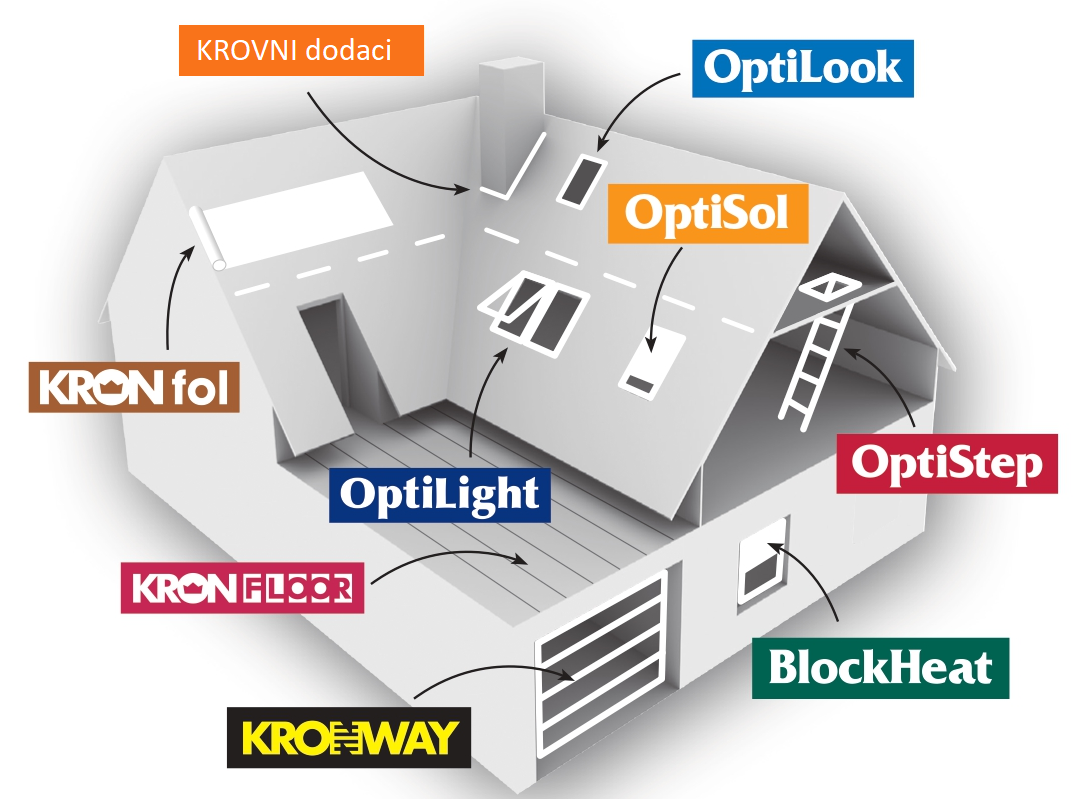
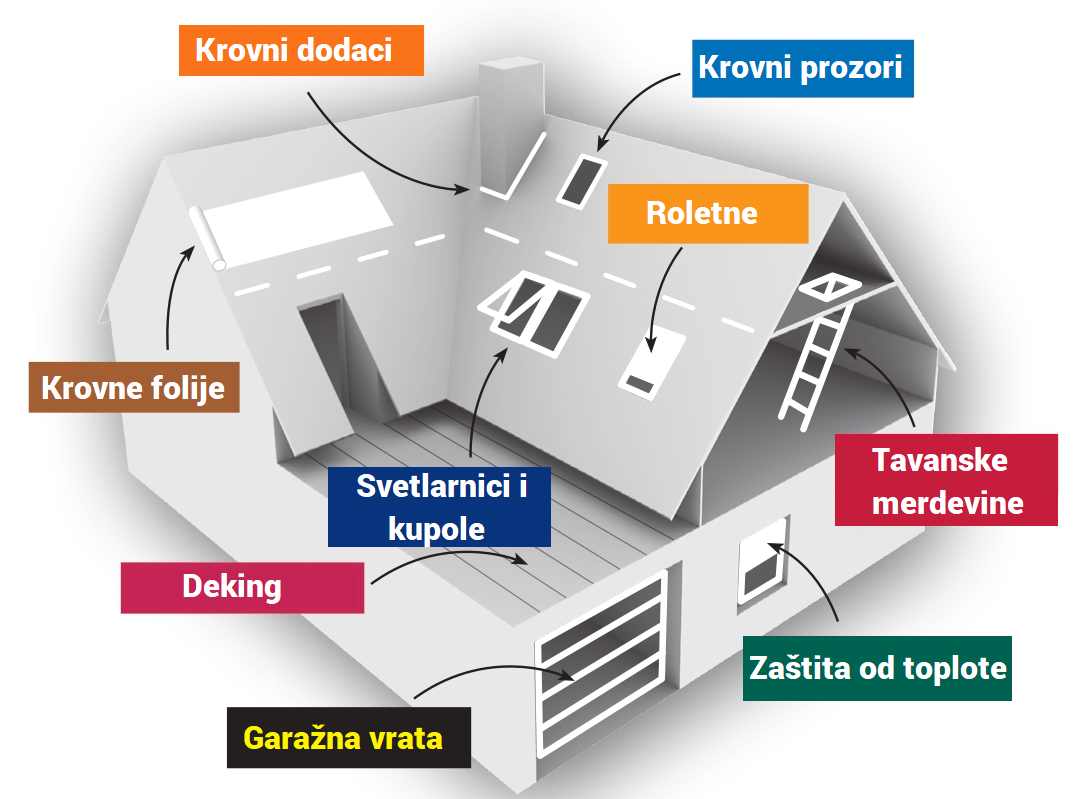
Translated main image

diff --git a/product6.html b/product6.html
@@ -123,14 +123,8 @@
     <div class="container-fluid p-0 pb-5">
         <div class="owl-carousel header-carousel position-relative">
             <div class="owl-carousel-item position-relative">
-                <img class="img-fluid" src="img/NewCarousel/KFNovaSlikaTranslated.png" srcset="img/NewCarousel/KFNovaSlikaTranslated.png 1920w, img/NewCarousel/KFNovaSlika_Small.jpg 320w, img/NewCarousel/KFNovaSlika_Medium.png 600w" alt="">
+                <img class="img-fluid" src="img/NewCarousel/KFNovaSlikaTranslated.png" srcset="img/NewCarousel/KFNovaSlikaTranslated.png 1920w, img/NewCarousel/KFNovaSlikaTranslated_Medium.jpg 320w, img/NewCarousel/KFNovaSlikaTranslated_Medium.png 600w" alt="">
             </div>
-            <!--<div class="owl-carousel-item position-relative">
-                <img class="img-fluid" src="img/KrovneFolije3.jpg" alt="">
-            </div>
-            <div class="owl-carousel-item position-relative">
-                <img class="img-fluid" src="img/KrovneFolije4.jpg" alt="">
-            </div>-->
         </div>
     </div>
     <!-- Carousel End -->
